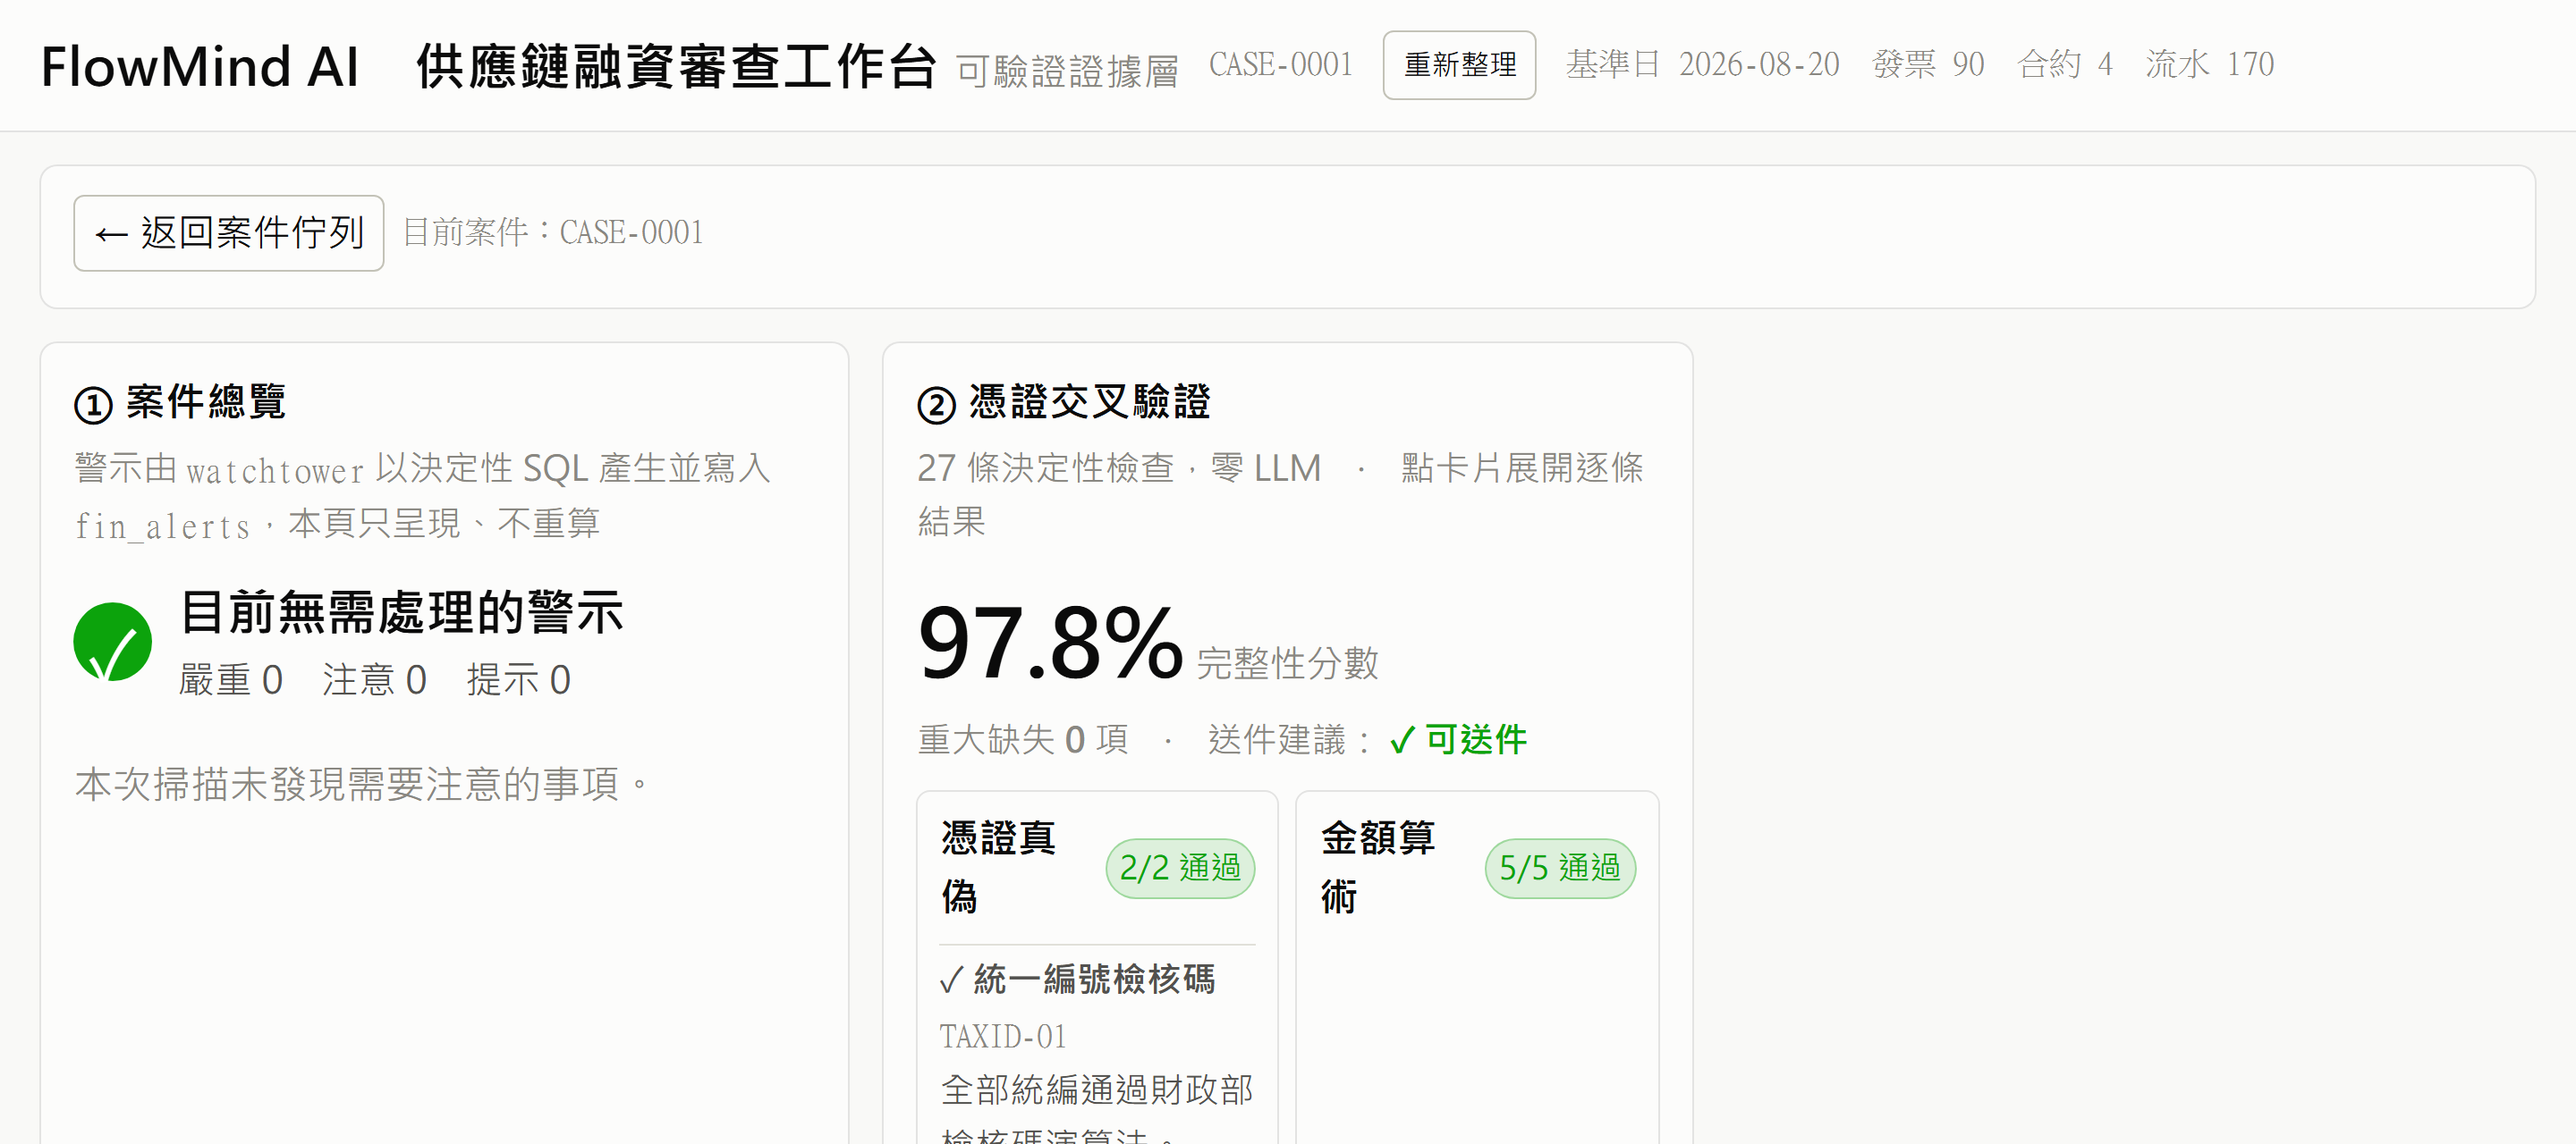
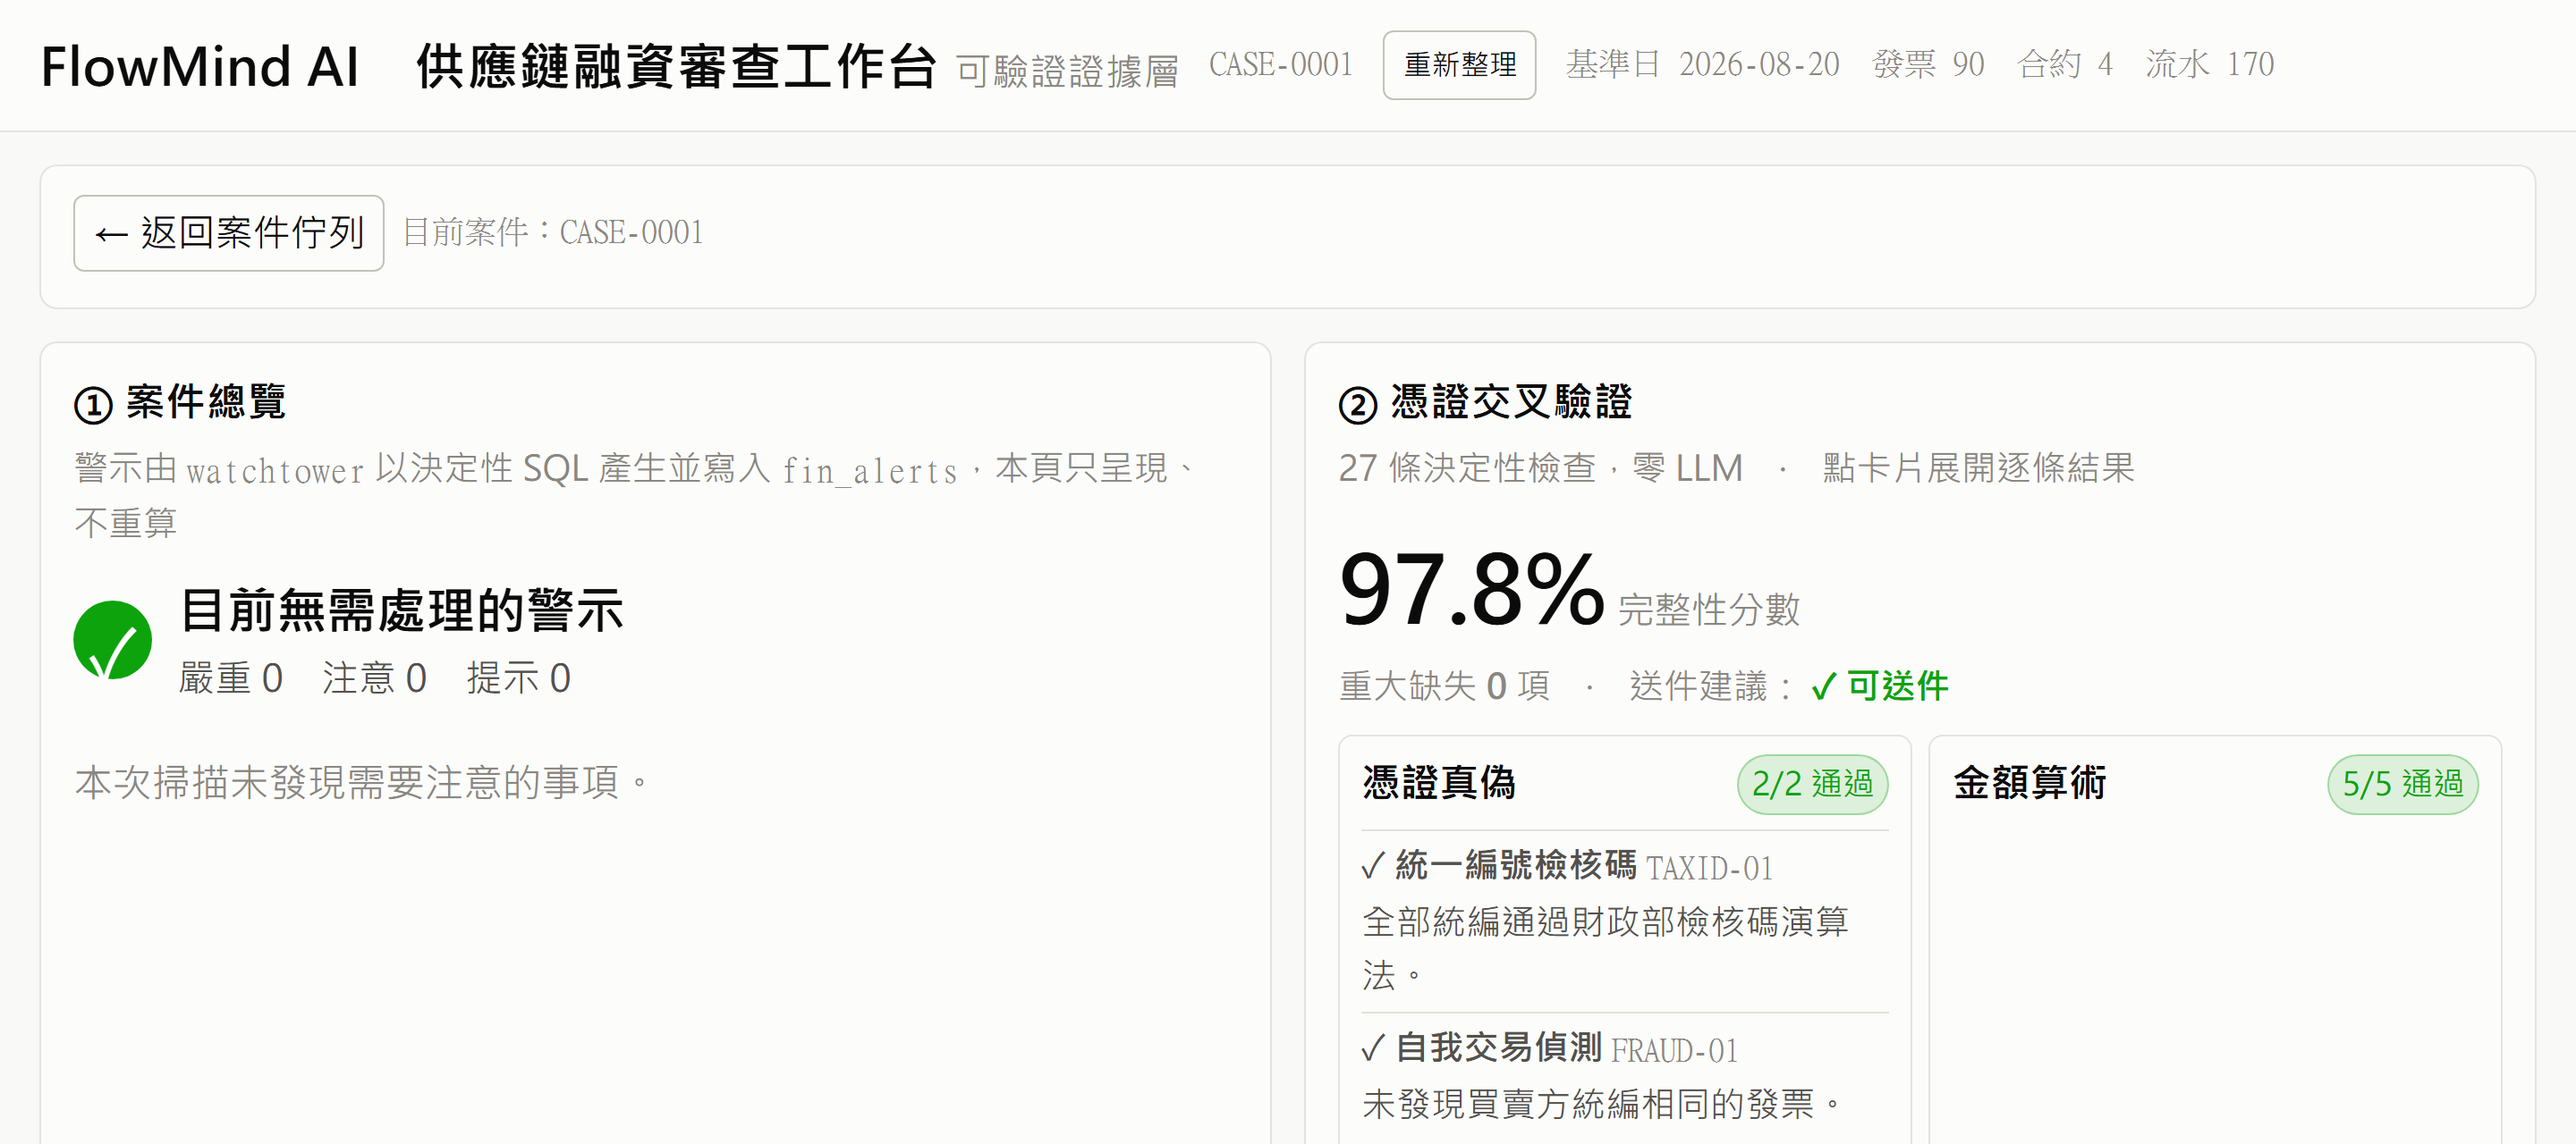
fix(儀表板): 版面三處修正——欄寬固定兩欄、卡片文字擠壓、長條圖蓋到y軸標籤
- main 從 auto-fit(minmax 430px) 改固定 repeat(2,1fr)：寬螢幕上 auto-fit
  會多擠出第三欄，讓①案件總覽/②憑證交叉驗證各自卡在窄欄裡、右側大片空白
  （使用者截圖回報）。窄螢幕(<820px)保留單欄 fallback。
- .cards minmax 190px→230px：字級放大 1.5 倍後「跨文件勾稽」+「7/8 通過」
  擠不進 190px 被迫換行，六張卡放寬後都能一行寫完。
- 現金流長條圖：長條以資料點為中心繪製，第一個資料點的中心正好落在繪圖區
  左邊界，最高長條的半寬會蓋到左側 y 軸單位文字。夾在 [P.l, W-P.r-bw] 內。

已重新產生儀表板截圖（capture_dashboard.py），201 項回歸測試全過。

diff --git a/flowmind/static/dashboard.html b/flowmind/static/dashboard.html
@@ -45,8 +45,14 @@ select, button, input {
 }
 button { cursor: pointer; }
 button:hover { background: var(--plane); }
+/* 固定兩欄，不用 auto-fit——寬螢幕上 auto-fit 會塞出第三欄，
+   讓①②案件總覽/憑證交叉驗證各自卡在窄欄裡、右邊留一大塊空白。
+   案件詳情頁本來就設計成「兩張並排＋全寬區塊交錯」，欄數不該隨螢幕寬度飄動。 */
 main { padding: 18px 22px 48px; display: grid; gap: 18px;
-       grid-template-columns: repeat(auto-fit, minmax(430px, 1fr)); }
+       grid-template-columns: repeat(2, 1fr); }
+@media (max-width: 820px) {
+  main { grid-template-columns: 1fr; }
+}
 section {
   background: var(--surface-1); border: 1px solid var(--ring);
   border-radius: 10px; padding: 16px 18px; min-width: 0;
@@ -90,7 +96,10 @@ h2 { font-size: 22.5px; margin: 0 0 4px; letter-spacing: .3px; text-transform: n
 @media (prefers-color-scheme: dark) { :root:not([data-theme=light]) .verdict.ok { color: #3fbf3f; } }
 
 /* 交叉驗證卡片 */
-.cards { display: grid; gap: 9px; grid-template-columns: repeat(auto-fit, minmax(190px, 1fr)); }
+/* 190px 是字級放大 1.5 倍前訂的，現在「跨文件勾稽」+「7/8 通過」擠在
+   190px 裡會被迫換行——放寬到 230px，六張卡在一般案件詳情欄寬下
+   會排成 2~3 欄，每張都一行寫完。 */
+.cards { display: grid; gap: 9px; grid-template-columns: repeat(auto-fit, minmax(230px, 1fr)); }
 .card { border: 1px solid var(--ring); border-radius: 8px; padding: 10px 12px; cursor: pointer; }
 .card:hover { background: var(--plane); }
 .card .top { display: flex; align-items: center; justify-content: space-between; gap: 8px; }
@@ -646,10 +655,16 @@ async function loadCash(t) {
               fill="var(--ink-muted)" font-size="11">${fmt(hi2)}</text>
         <text x="${P.l - 8}" y="${Y2(0) + 4}" text-anchor="end"
               fill="var(--ink-muted)" font-size="11">0</text>
-        ${d.points.map((p, i) => `<rect x="${(X(i) - bw / 2).toFixed(1)}"
+        ${d.points.map((p, i) => {
+          // 長條以 X(i) 為中心畫，第一/最後一個資料點的中心正好落在
+          // 繪圖區邊界（跟折線圖共用時間軸的代價）——半寬會讓長條
+          // 往外溢出，蓋到左邊 y 軸單位文字或右邊留白。夾在邊界內。
+          const bx = Math.min(Math.max(X(i) - bw / 2, P.l), W - P.r - bw);
+          return `<rect x="${bx.toFixed(1)}"
             y="${Y2(p.inflow).toFixed(1)}" width="${bw.toFixed(1)}"
             height="${(Y2(0) - Y2(p.inflow)).toFixed(1)}" rx="4"
-            fill="var(--seq-450)"><title>${p.date}　入帳 ${fmt(p.inflow)}（${p.invoices} 張）</title></rect>`).join('')}
+            fill="var(--seq-450)"><title>${p.date}　入帳 ${fmt(p.inflow)}（${p.invoices} 張）</title></rect>`;
+        }).join('')}
         ${d.points.map((p, i) => `<text x="${X(i)}" y="${H2 - 6}" text-anchor="middle"
             fill="var(--ink-muted)" font-size="10">${p.date.slice(5)}</text>`).join('')}
       </svg>
